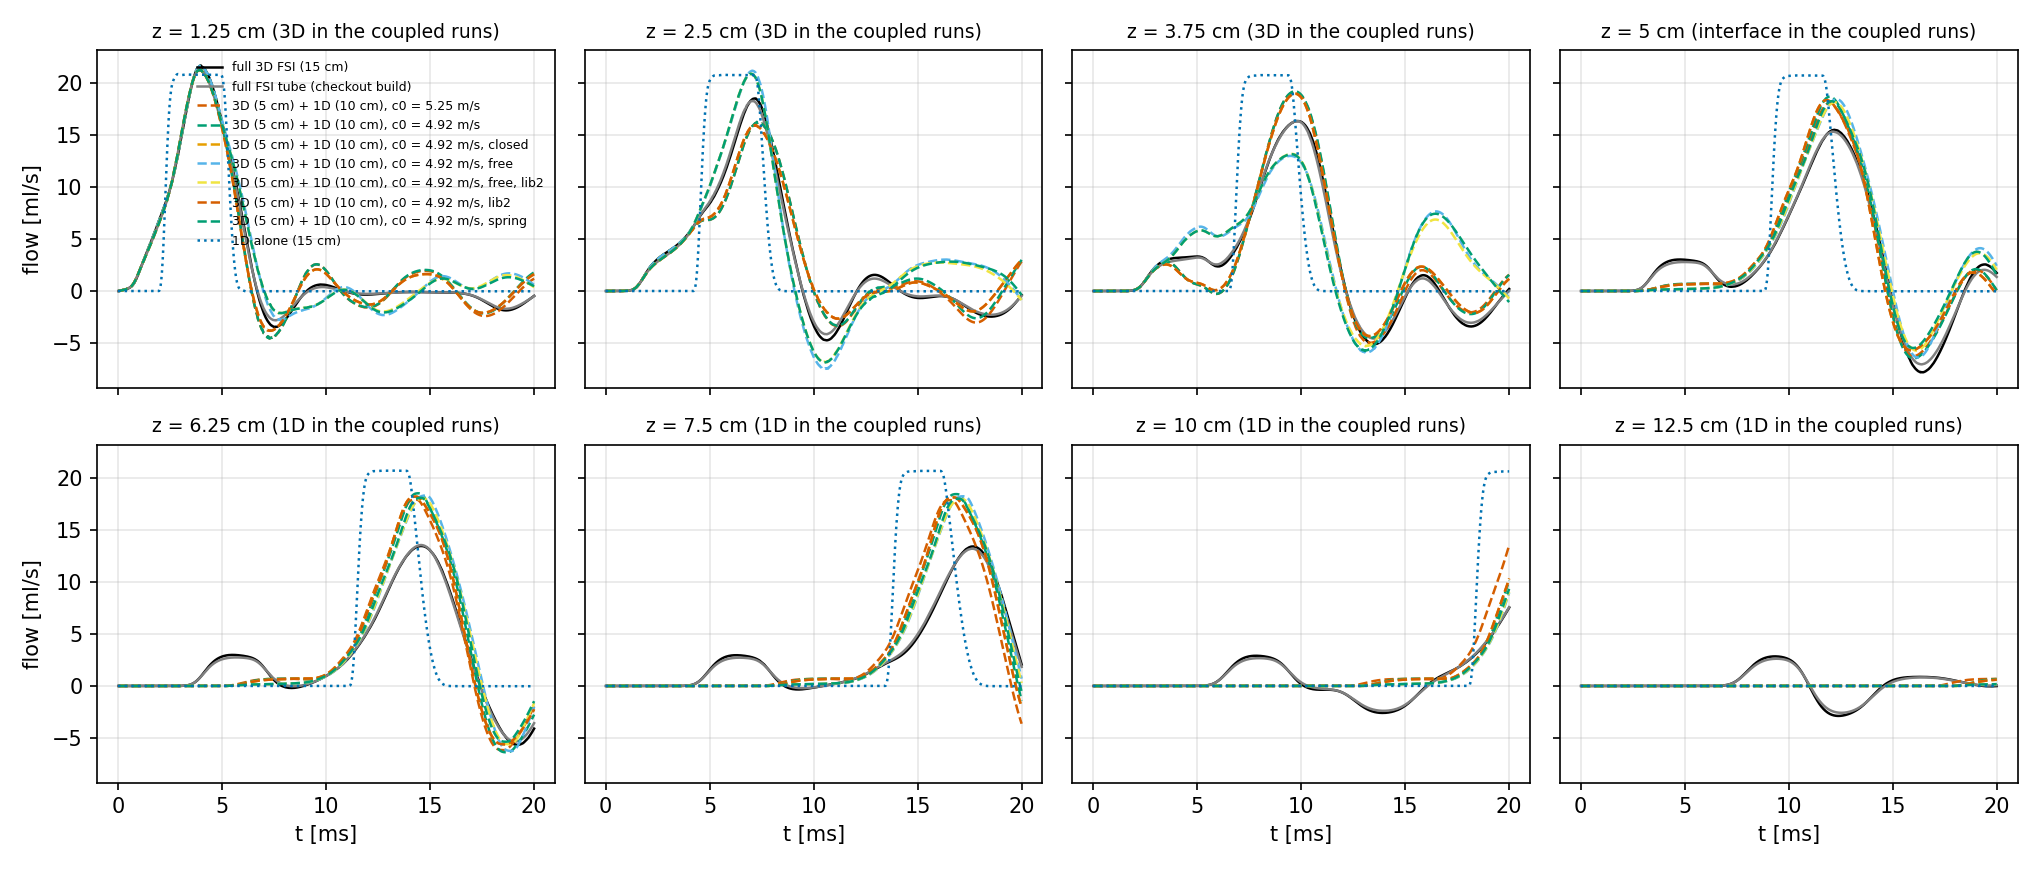
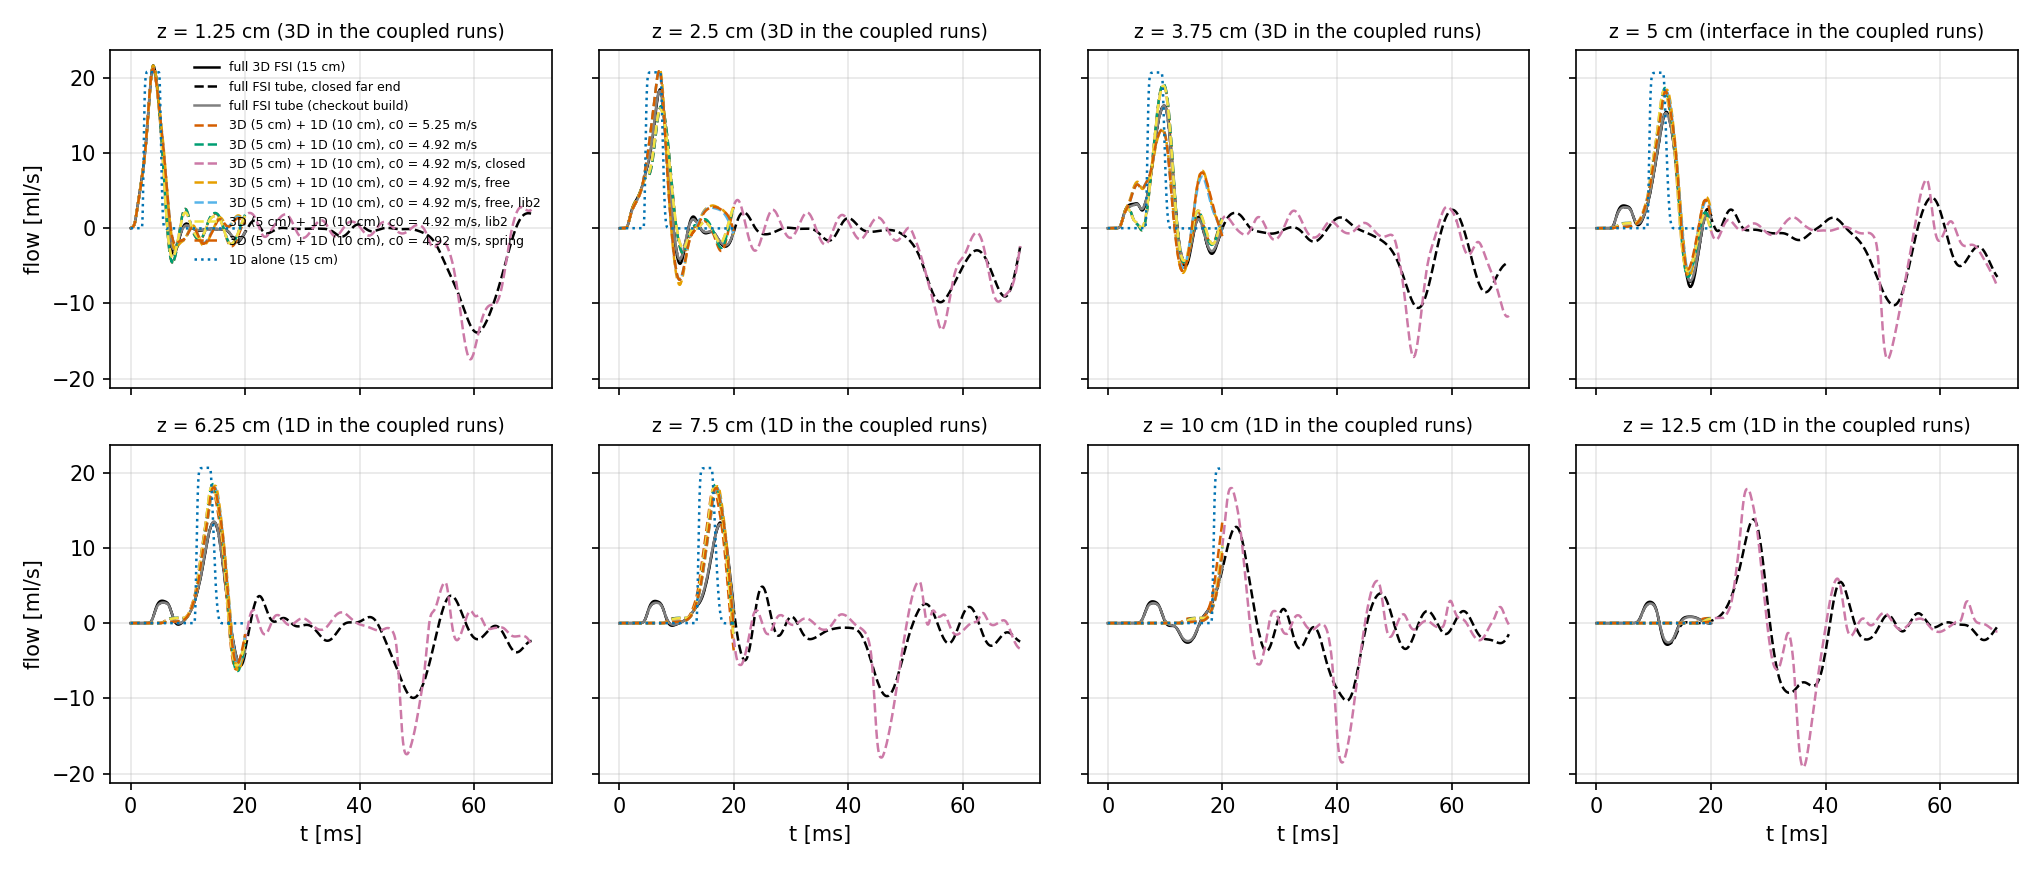
formaggia2007: the pulse returning from the 1D side (item 8b)
--closedEnd --endTime 0.07: the full tube with a wall at its far end and
the coupled vessel with a zero-flow end, 70 ms. The wave comes back
through the interface into the 3D part within 1-2 ms of the full tube at
every section, with the 1D vessel's undispersed amplitude (844-1124 Pa
against 475-680 Pa after the thick wall's dispersion out and back); the
mismatch is the 1D model's, already 20 % on the outgoing wave at 10 cm.

diff --git a/tutorials/circulationModels/coupling3D1D/formaggia2007/results.md b/tutorials/circulationModels/coupling3D1D/formaggia2007/results.md
@@ -2,6 +2,8 @@
 
 3D wave speed of full3D (half-peak arrival at z = 1.25, 2.5, 3.75, 5, 6.25, 7.5 cm): 4.917 m/s
 
+3D wave speed of full3D_closed (half-peak arrival at z = 1.25, 2.5, 3.75, 5, 6.25, 7.5, 10, 12.5 cm): 4.891 m/s
+
 3D wave speed of full3D_lib2 (half-peak arrival at z = 1.25, 2.5, 3.75, 5, 6.25, 7.5 cm): 4.912 m/s
 
 1D wave speed, same measure (1D alone): 5.415 m/s
@@ -36,20 +38,20 @@ Radial wall displacement at z = 2.5 cm: peak 150.32 um (full3D), 150.18 um (coup
 
 Radial wall displacement at z = 2.5 cm: peak 150.32 um (full3D), 150.16 um (coupled_c4p92); RMS difference 3.315 um
 
-## coupled_c4p92_closed_20ms: 1D c0 = 4.92 m/s (against full3D)
+## coupled_c4p92_closed: 1D c0 = 4.92 m/s (against full3D_closed)
 
 | z [cm] | where | peak P full3D / coupled / 1D alone [Pa] | arrival full3D / coupled / 1D alone [ms] | RMS(P coupled - full3D) / pulse | RMS(Q coupled - full3D) / peak Q |
 |---|---|---|---|---|---|
-| 1.25 | 3D | 1388 / 1352 / 1338 | 2.74 / 2.71 / 2.30 | 3.13e-02 | 4.92e-02 |
-| 2.5 | 3D | 1288 / 1303 / 1332 | 5.26 / 5.19 / 4.60 | 3.15e-02 | 9.24e-02 |
-| 3.75 | 3D | 1133 / 1169 / 1330 | 7.90 / 7.93 / 6.91 | 4.81e-02 | 8.25e-02 |
-| 5 | port | 1093 / 1104 / 1328 | 10.42 / 10.27 / 9.22 | 5.10e-02 | 1.19e-01 |
-| 6.25 | 1D | 1053 / 1096 / 1327 | 12.96 / 12.72 / 11.53 | 7.55e-02 | 1.54e-01 |
-| 7.5 | 1D | 993 / 1091 / 1325 | 15.41 / 15.18 / 13.84 | 6.48e-02 | 2.10e-01 |
-| 10 | 1D | 486 / 632 / 1322 | nan / nan / 18.46 | 2.09e-02 | 1.96e-01 |
-| 12.5 | 1D | 38 / 38 / 0 | nan / nan / nan | 2.12e-02 | 4.58e-01 |
+| 1.25 | 3D | 1352 / 1352 / 1338 | 2.71 / 2.71 / 2.30 | 9.82e-02 | 6.04e-02 |
+| 2.5 | 3D | 1271 / 1303 / 1332 | 5.26 / 5.19 / 4.60 | 8.09e-02 | 8.71e-02 |
+| 3.75 | 3D | 1135 / 1169 / 1330 | 7.81 / 7.93 / 6.91 | 7.51e-02 | 1.34e-01 |
+| 5 | port | 1077 / 1124 / 1328 | 10.42 / 10.27 / 9.22 | 9.37e-02 | 1.43e-01 |
+| 6.25 | 1D | 1046 / 1096 / 1327 | 12.94 / 12.72 / 11.53 | 9.03e-02 | 1.83e-01 |
+| 7.5 | 1D | 985 / 1091 / 1325 | 15.40 / 15.18 / 13.84 | 1.04e-01 | 2.06e-01 |
+| 10 | 1D | 902 / 1083 / 1322 | 20.64 / 20.09 / 18.46 | 1.02e-01 | 2.19e-01 |
+| 12.5 | 1D | 974 / 1077 / 0 | 25.70 / 24.99 / nan | 9.33e-02 | 1.99e-01 |
 
-Radial wall displacement at z = 2.5 cm: peak 150.32 um (full3D), 146.76 um (coupled_c4p92_closed_20ms); RMS difference 4.242 um
+Radial wall displacement at z = 2.5 cm: peak 146.89 um (full3D_closed), 146.76 um (coupled_c4p92_closed); RMS difference 12.546 um
 
 ## coupled_c4p92_free: 1D c0 = 4.92 m/s (against full3D)
 

diff --git a/tutorials/circulationModels/coupling3D1D/formaggia2007/README.md b/tutorials/circulationModels/coupling3D1D/formaggia2007/README.md
@@ -149,6 +149,36 @@ displacement prescribed from the 1D vessel's area at the interface (a
 coupled Dirichlet condition on the solid), which needs the coupler to
 drive a solid boundary and is not built.
 
+## The wave returning from the 1D side
+
+`makeCases.py --c0 4.92 --closedEnd --endTime 0.07` closes the far end:
+the full tube gets a wall at 15 cm, the coupled run's 1D vessel a zero-flow
+end (which reflects with +1 in pressure), and both run for 70 ms so that
+the pulse, after leaving the 3D part at 10 ms, returns through the
+interface at about 50 ms and reaches z = 1.25 cm at 58 ms. Against the
+closed full tube (`results.md`, `coupled_c4p92_closed` against
+`full3D_closed`, same build):
+
+| z [cm] | outgoing peak: full / coupled [Pa] | returning peak: full / coupled [Pa], at [ms] | RMS(P - full) / pulse, 30-70 ms |
+|---|---|---|---|
+| 1.25 | 1352 / 1352 | 475 / 844 at 58.0 / 59.0 | 0.12 |
+| 2.5 | 1271 / 1303 | 656 / 1054 at 56.5 / 56.4 | 0.10 |
+| 3.75 | 1135 / 1169 | 680 / 1086 at 54.2 / 53.5 | 0.09 |
+| 5 (interface) | 1077 / 1124 | 678 / 1124 at 51.9 / 50.1 | 0.12 |
+| 10 | 902 / 1083 | | |
+| 12.5 | 974 / 1077 | | |
+
+The returning wave comes back through the interface into the 3D part at
+the right time (within 1-2 ms of the full tube at every section) and
+with the 1D vessel's amplitude: the full tube disperses and attenuates
+the pulse on its way out and back through the thick wall (475-680 Pa on
+return), the 1D vessel carries it almost undispersed (844-1124 Pa), and
+the difference is already there on the outgoing wave at 10 and 12.5 cm
+(1083 against 902, 1077 against 974 Pa) before anything has returned. So
+the coupling passes a wave from 1D into 3D as it does from 3D into 1D;
+what the comparison measures beyond that is the 1D model's lack of wall
+inertia and dispersion, now counted twice.
+
 ## Results
 
 See `results.md` and `plots/sections_P.png`, `sections_Q.png`,

diff --git a/src/circulationModels/docs/PAPER_RESULTS.md b/src/circulationModels/docs/PAPER_RESULTS.md
@@ -450,6 +450,20 @@ interface from 1D into 3D; `analyse.py` compares a `_closed` coupled run
 with `full3D_closed`. Cases written, runs pending (about 30 minutes: the
 coupled run serial, the full tube on 4 ranks).
 
+**(b) Result (verified; 70 ms runs, `results.md`).** The wave returns
+through the interface into the 3D part within 1-2 ms of the closed full
+tube at every section (peaks at z = 1.25, 2.5, 3.75, 5 cm at 59.0 /
+56.4 / 53.5 / 50.1 ms against 58.0 / 56.5 / 54.2 / 51.9 ms) and with the
+1D vessel's amplitude: 844-1124 Pa against the full tube's 475-680 Pa,
+which the thick wall's inertia has dispersed and attenuated on the way
+out and back; the difference is already 20 % on the outgoing wave at
+z = 10 cm (1083 against 902 Pa) before anything has returned. RMS
+difference over 30-70 ms 0.09-0.12 of the pulse. The coupling passes a
+wave from 1D into 3D as it does the other way; the amplitude mismatch is
+the 1D model's, counted twice. (The 20 ms window first tried does not
+reach the return; the cases now default to that end time only with
+`--endTime`.)
+
 **(c) Refinement with the smooth pulse.** Not launched: the estimate is
 above the two-hour limit. Per end condition (clamped, free, spring) the
 coupled run at the tutorial's mesh and dt = 25 us takes 12 minutes serial
